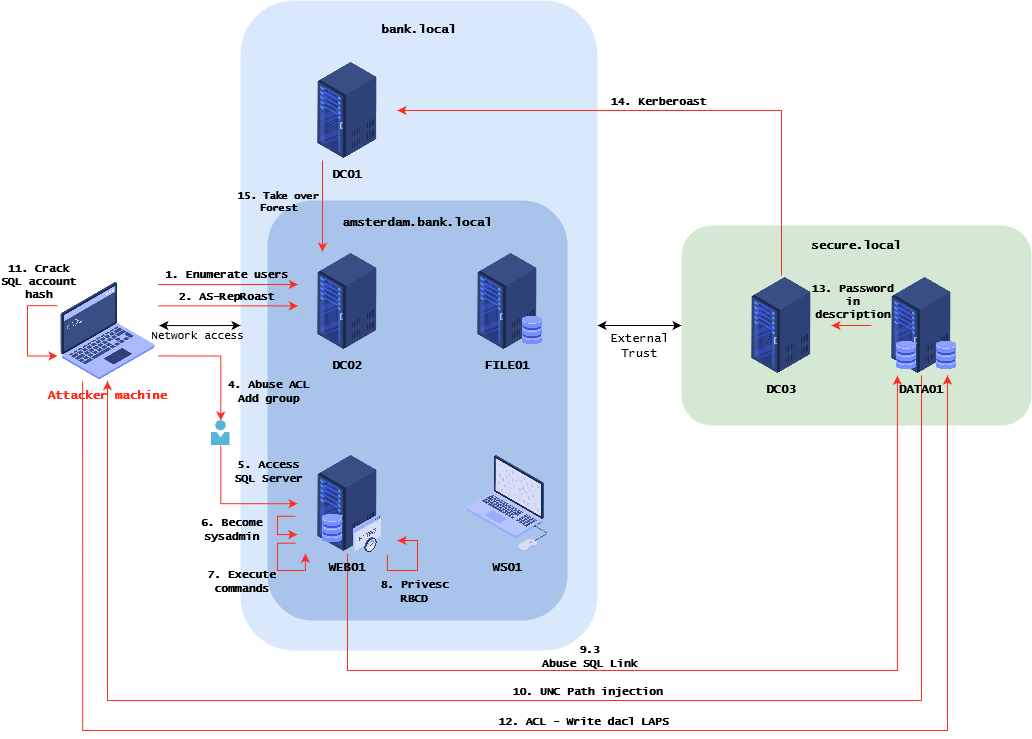
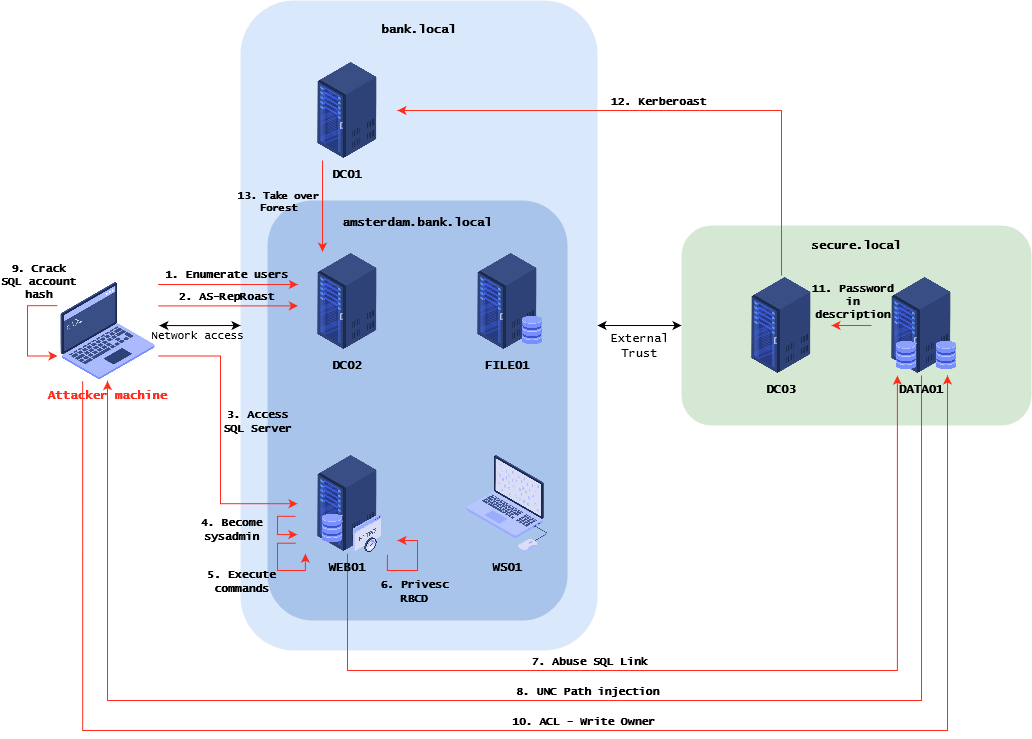
GitBook: [#315] No subject

diff --git a/lab-setup/lab-overview/attack-path-2/README.md b/lab-setup/lab-overview/attack-path-2/README.md
@@ -2,7 +2,7 @@
 
 ## Attack path visualized
 
-![](<../../../.gitbook/assets/attack\_path2.drawio (2).png>)
+![](<../../../.gitbook/assets/attack\_path2.drawio (1).png>)
 
 ## Tasks for the specified attack path
 
@@ -14,8 +14,8 @@
 6. Escalate privileges with Resource Based Constrained Delegation.
 7. Enumerate SQL Links.
 8. Perform UNC Path injection and capture the hash of the user the SQL server is running as.
-9. Crack the SQL accounts hash.
-10. Abuse the write DACL acl.
+9. Crack the hash retrieved through UNC PATH injection
+10. Abuse the write Owner acl.
 11. Check the description for passwords.
 12. Check for SPN's across trusts.
 13. Take over the `bank.local` forest.
